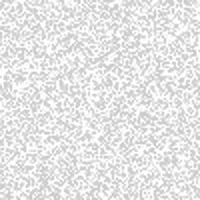
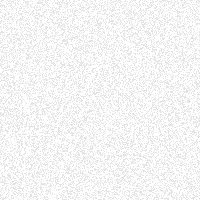
fixed grain and cleaned some files

diff --git a/src/components/Grain.vue b/src/components/Grain.vue
@@ -14,23 +14,24 @@
 
     &::before{
       content: '';
-      background-image: url('/assets/img/grain-tile@075x.png');
-      opacity: 0.4;
-      filter: brightness(0.9);
+      background-image: url('/assets/img/grain-tile@2x.png');
+      opacity: 0.2;
+      filter: brightness(0.5);
       position: absolute;
       width: 100%;
       height: 100%;
       animation: grainMove 0.0024s steps(8) infinite;
 
       @include lg {
-        opacity: 0.3;
-      background-image: url('/assets/img/grain-tile.png');
+        opacity: 0.45;
+        filter: brightness(0.9);
+        background-image: url('/assets/img/grain-tile.png');
       }
 
       @include retina{
-        background-image: url('/assets/img/grain-tile@05x.png');
-        filter: brightness(1.2);
-        opacity: 0.6;
+        background-image: url('/assets/img/grain-tile@2x.png');
+        filter: brightness(0.60);
+        opacity: 0.25;
       }
     }
   }

diff --git a/src/components/Main/Other/vOther.vue b/src/components/Main/Other/vOther.vue
@@ -106,17 +106,6 @@ export default {
       }
 
       &:hover{
-        .title{
-          // -webkit-text-stroke: 1.5px;
-          // -webkit-text-stroke-color: $c-white;
-
-          // @include xl{
-            // -webkit-text-stroke: 2px;
-          // }
-          // @include xxl{
-            // -webkit-text-stroke: 2.5px;
-          // }
-        }
 
         .img{
           @include tb{

diff --git a/src/components/Main/Tem/vTem.vue b/src/components/Main/Tem/vTem.vue
@@ -66,7 +66,6 @@ export default {
 
     @include lg {
       border-bottom: inherit;
-      // align-items: center;
     }
 
     .img--avatar{
@@ -123,6 +122,7 @@ export default {
           font-size: $s-desk--small;
         }
       }
+
       p{
         margin: 0;
         padding-bottom: $s-mob--smallest;

diff --git a/src/components/Footer/vFooterCopyright.vue b/src/components/Footer/vFooterCopyright.vue
@@ -113,10 +113,8 @@
       transition: $t-fast;
       background-color: $c-white;
       svg{
-        // border: none;
         fill: $c-white;
         path{
-          // stroke: $c-white;
           transition: $t-fast;
           fill: $c-black;
         }

diff --git a/src/components/Footer/vFooter.vue b/src/components/Footer/vFooter.vue
@@ -46,14 +46,6 @@ export default {
 <style lang="scss" scoped>
 .section--footer{
   position: relative;
-
-  @include sm{}
-  @include tb{}
-  @include lg{}
-  @include xl{}
-  @include xxl{}
-  @include xxxl{}
-
   .section__content{
     border: 0;
   }
